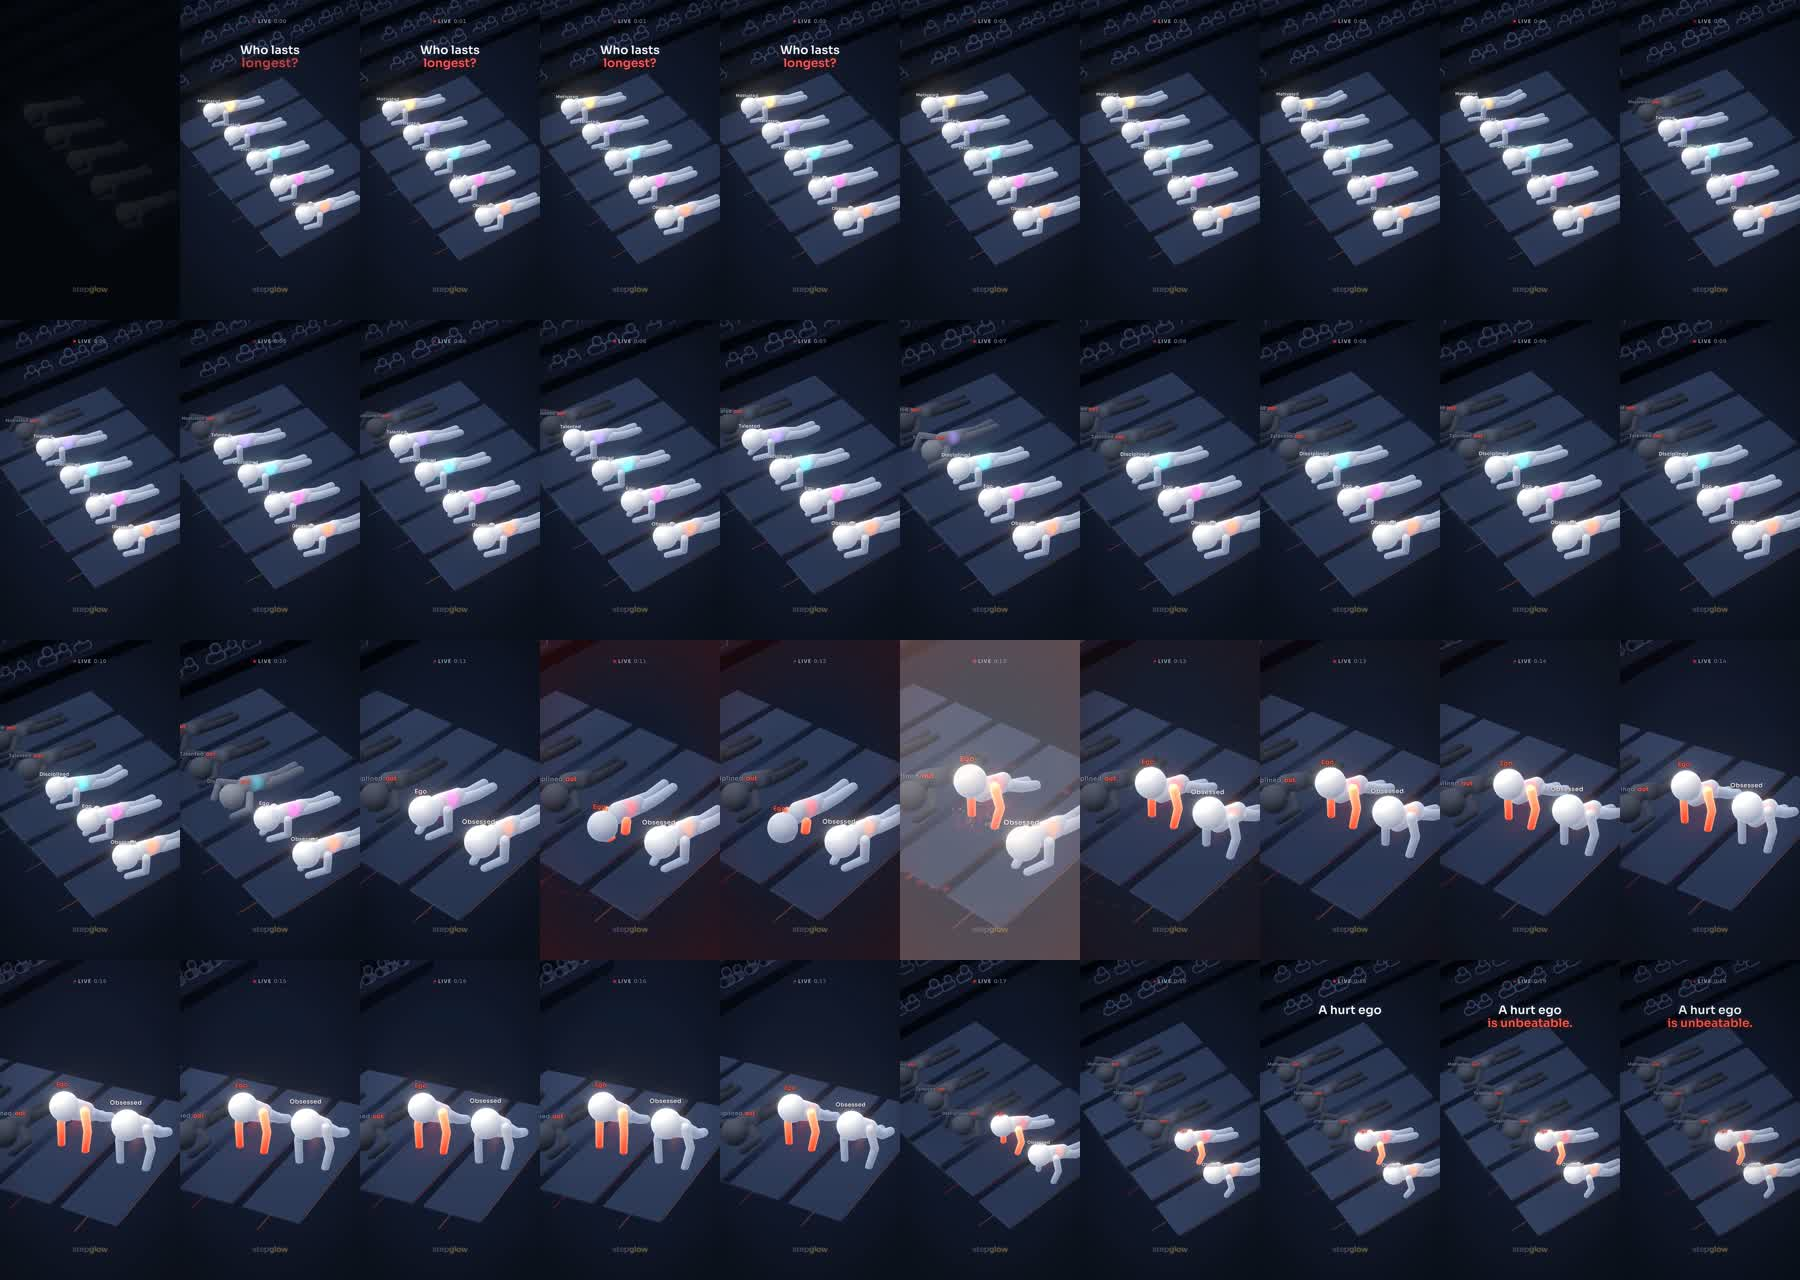
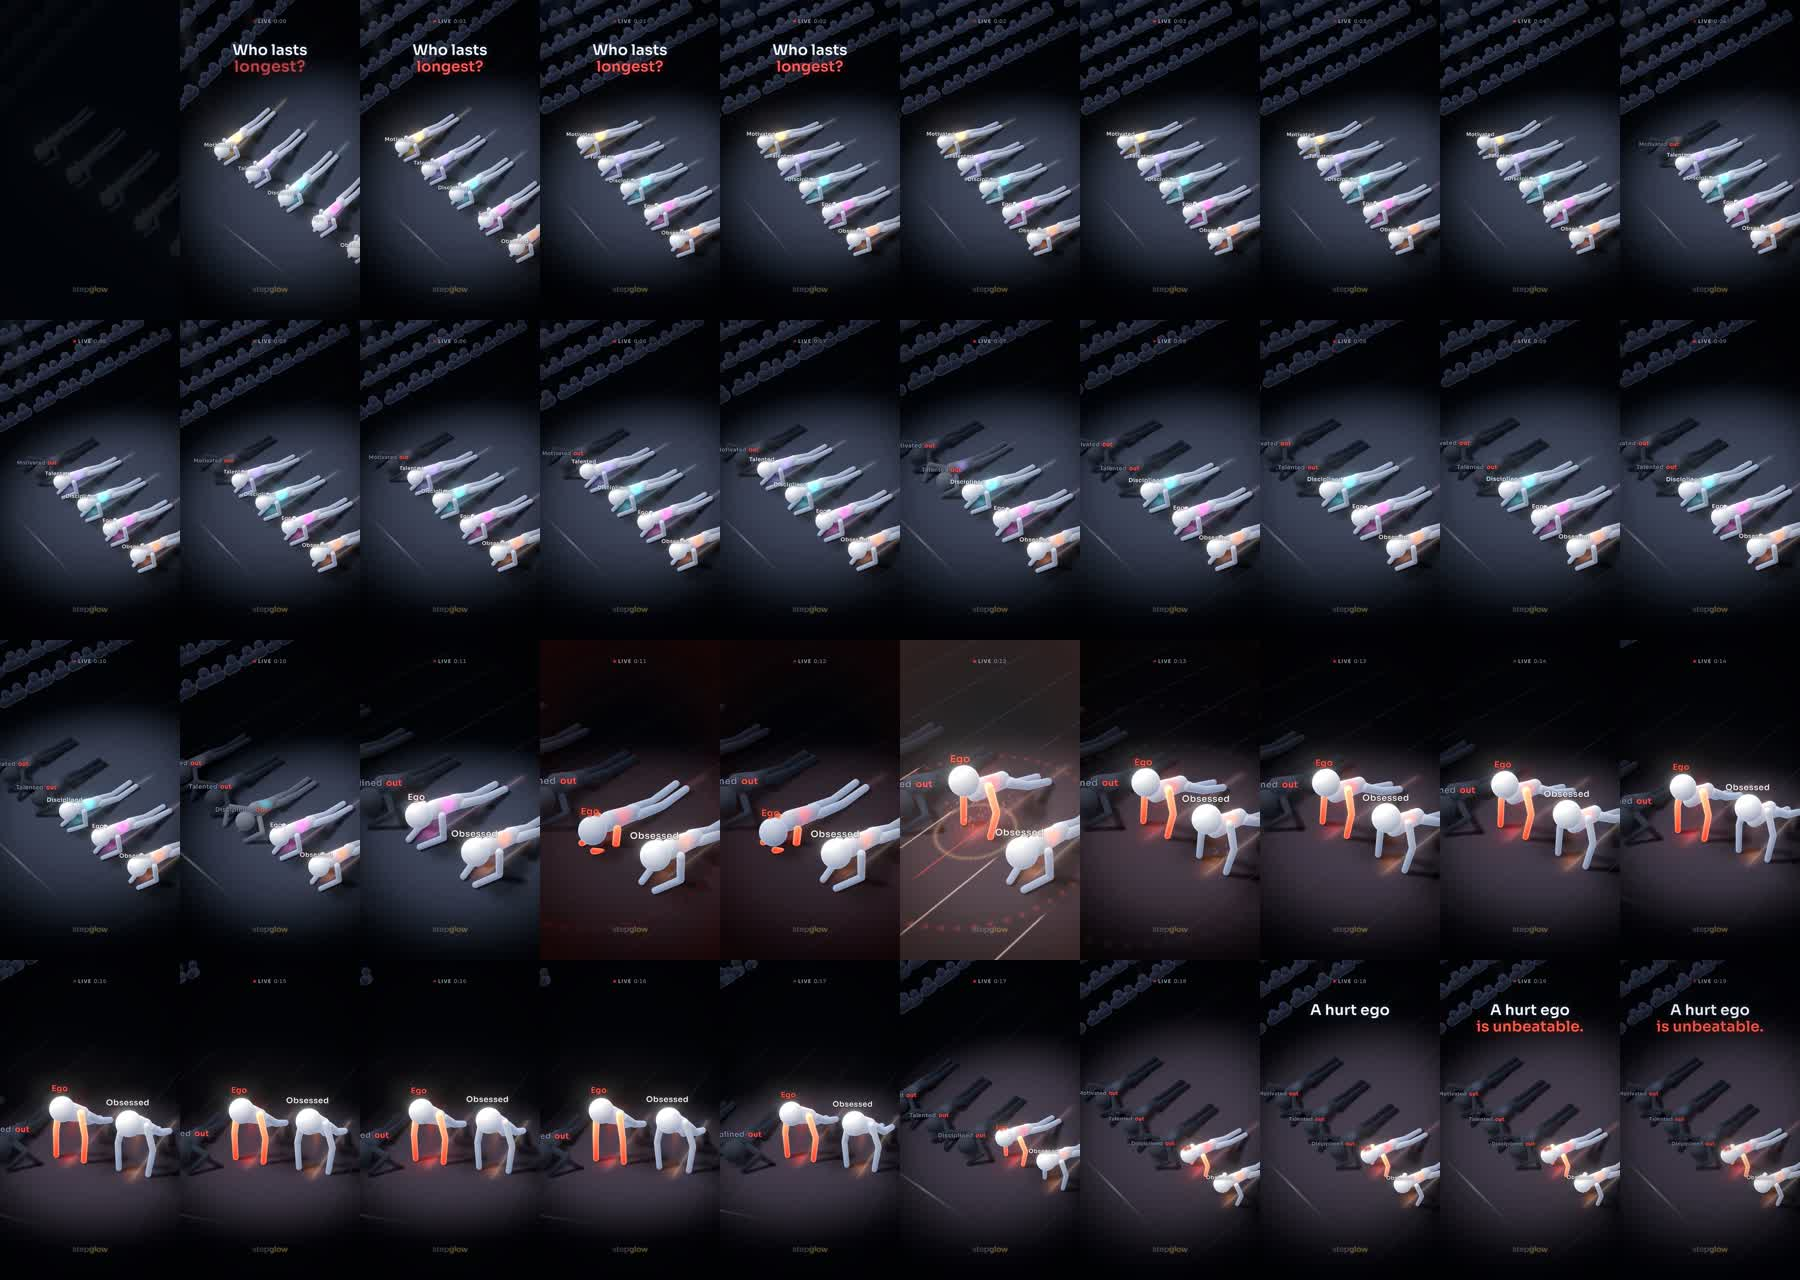
SG004 v2 rendered: contact sheet and side-by-side with the reference
Claude-Session: https://claude.ai/code/session_011Go5XK9Z7AuDmUx1kVUHp6

diff --git a/channels/stepglow/README.md b/channels/stepglow/README.md
@@ -78,4 +78,4 @@
 | NC001 | Work smart over hard (6 уроков, эталон SIMPLY ANIMATED) | `episodes/nc001-work-smart/`, `studio/src/episodes/nc001-work-smart/` | готов: `review/nc001/NC001-final-wm.mp4` (33,5 с, 1080×1920, 30 к/с, −14 LUFS, со знаком), поля `youtube.md`, раскадровка `storyboard.md` |
 | SG002 | Great things always start small (костёр · гора · доминошки, эталон https://youtube.com/shorts/MYjL0aPNzVA) | `episodes/sg002-start-small/`, `studio/src/episodes/sg002-start-small/` | готов: `review/sg002/SG002-final.mp4` (1080×1920, 60 к/с, 33,5 с, −10 LUFS, со знаком); поля `youtube.md`, раскадровка `storyboard.md` |
 | SG003 | Which one are you? — Same bar (пятеро на турнике: Motivation · Ego · Obsession · Discipline · Talent, эталон https://youtube.com/shorts/y5Gvf_sTOfs) | `episodes/sg003-same-bar/`, `studio/src/episodes/sg003-same-bar/` | готов: `review/sg003/SG003-final.mp4` (1080×1920, 60 к/с, 28,9 с, −10 LUFS, со знаком); поля `youtube.md`, раскадровка `storyboard.md`, разбор `reference.md` |
-| SG004 | Who lasts longest? — A hurt ego is unbeatable (пятеро в планке: Motivated · Talented · Disciplined · Ego · Obsessed, эталон https://youtube.com/shorts/635IQyyI5Jo) | `episodes/sg004-hurt-ego/`, `studio/src/episodes/sg004-hurt-ego/` | черновик v1: `review/sg004/SG004-v1.mp4` (1080×1920, 60 к/с, 20,06 с, −10 LUFS, со знаком); поля `youtube.md`, раскадровка `storyboard.md`, разбор `reference.md` |
+| SG004 | Who lasts longest? — A hurt ego is unbeatable (пятеро в планке: Motivated · Talented · Disciplined · Ego · Obsessed, эталон https://youtube.com/shorts/635IQyyI5Jo) | `episodes/sg004-hurt-ego/`, `studio/src/episodes/sg004-hurt-ego/` | черновик v2: `review/sg004/SG004-v2.mp4` (1080×1920, 60 к/с, 20,06 с, −10 LUFS, со знаком); поля `youtube.md`, раскадровка `storyboard.md`, разбор `reference.md` |
